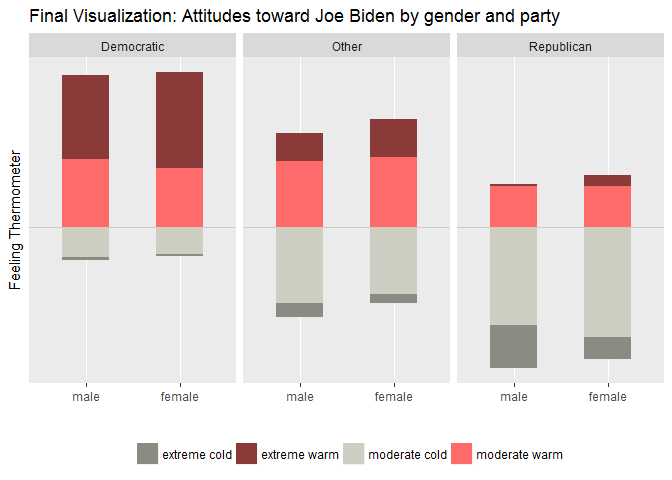
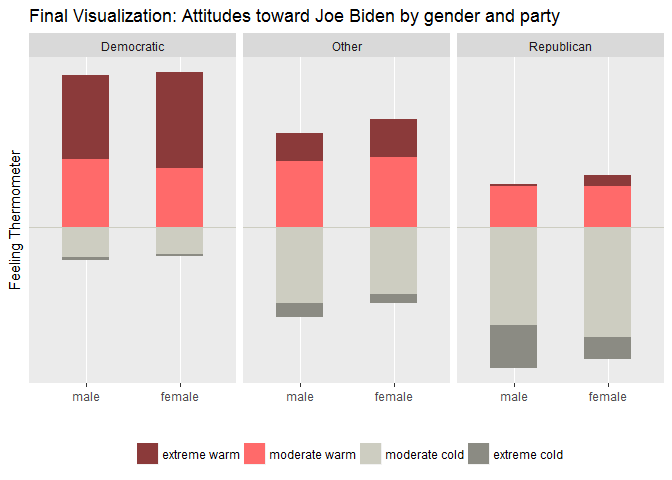
part 1, 3 sections finished

Changed region(s): [[0.3125, 0.9062, 0.8438, 0.9688], [0.1875, 0.9062, 0.25, 0.9688]]

diff --git a/submissions/Liu_Guangyu/assignment1/assignment_1_-_Guangyu_Liu.md b/submissions/Liu_Guangyu/assignment1/assignment_1_-_Guangyu_Liu.md
@@ -6,8 +6,44 @@ Due April 10, 2017
 Part 1: Visualization Critique
 ------------------------------
 
-Part 2: ggplot2 and the grammar of graphics
--------------------------------------------
+In 2014, Gregor Aisch, Robert Gebeloff, and Kevin Quealy charted [the migration trend of Americans since 1900](https://www.nytimes.com/interactive/2014/08/13/upshot/where-people-in-each-state-were-born.html?action=click&contentCollection=The%20Upshot&region=Footer&module=WhatsNext&version=WhatsNext&contentID=WhatsNext&moduleDetail=undefined&pgtype=Multimedia#Illinois). These interactive graphs incorporate trends of both immigration and migration between states in the past century.
+
+### Truthful
+
+To evaluate the truthfulness of the graph, two aspects need to be examined:
+
+-   Is the data reliable?
+-   Is the visualization reliable?
+
+These charts are based on Census microdata obtained from [IPUMS](https://www.ipums.org/) at the University of Minnesota Population Center. IPUMS provides census and survey data from around the world. It is reasonable to believe that the data source is reliable.
+
+At the bottom of the webpage, the authors indicate how foreign born residents and U.S. born residents but without a specific state are categorized in these graphs. Indicating data source and methodology makes these charts reproducible and reduces the probability of misrepresentation. In addition, the x-axis is divided into equal time intervals, the width of the bands are in proportion to the size of each group. The graphs accurately represent the data.
+
+### Functional
+
+In these graphs, the United States is divided into four regions: west, south, Midwest, and northeast, each is denoted by a particular color. The division of regions is clearly showed in the map on the left bottom. Readers can easily choose a state by clicking its position in the map.
+
+Each graph contains four types of data:
+
+-   Time, which is mapped to the x-axis
+-   Size of migration, which is showed by the width of each ribbon
+-   Destination (or origin) of migration, which is showed by the color of each ribbon
+-   Relative rank of each migration destination (or origin), which is indicated by the relative position of each ribbon
+
+Taking the graph of diaspora out of California as an example, with each ribbon stacking over the other, at the first sight, these graphs reminded me the stacked continental GDP graph we critiqued in class 2. In the GDP chart, it is difficult to compare the size of bands in the middle, since their baselines are different. An essential improvement in the migration graphs is that the ribbons intertwine with each other, with the larger size always on the top. In addition, when mouse hover over a ribbon, the graph shows the accurate percentage of California born residents lived in other regions/states in certain time. It is easy to compare the relative size of ribbons.
+
+However, this change has its weakness too. When the migration is mainly within region and changes frequently over time, the graph may be too complex to read. An extreme example is the graph of migration into Wyoming. Too many ribbons make it difficult to differentiate and obscure the main point. For instance, less than 3% Wyoming-born residents lived in Pennsylvania since 1900. It may be more appropriate to merge it into “other states in the northeast” to simplify the graph, and help the audience focus on its main destination. Also, since destination states are represented separately, it is difficult to add up the percentages in each region and tell the general migration trend.
+
+### Beautiful
+
+Generally speaking, these visualizations graph the trends of migration in an intuitively way. The pattern of ribbons shows whether the trend of migration is steadily over time or changes rapidly. However, as mentioned above, as the number of migration destination / origin increases, the graph gets less concise.
+
+### Insightful
+
+### Enlightening
+
+Part 2: `ggplot2` and the grammar of graphics
+---------------------------------------------
 
 ### Design
 
@@ -42,7 +78,7 @@ The problem of the above barchart is that although it is easy to compare the ext
 
 ![](assignment_1_-_Guangyu_Liu_files/figure-markdown_github/unnamed-chunk-5-1.png)
 
-Finally, to more clearly emphasize the comparison between like and dislike, I changed the filled color. Now, the cold categories are from the same color set, while the warm categories are from another color set. It is easy to tell that for each political party group, female respondents like Biden more than male respondents do. Democratic respondents like Biden most, Republican respondents dislike Biden most, while respondents of other political beliefs are in between. The final visualization and the complete code is as below.
+Finally, in order to more clearly emphasize the comparison between like and dislike, I changed the filled color. Now, the cold categories are from the same color set, while the warm categories are from another color set. It is easy to tell that for each political party group, female respondents like Biden more than male respondents do. Democratic respondents like Biden most, Republican respondents dislike Biden most, while respondents of other political beliefs are in between. The final visualization and the complete code is as below.
 
 ### Code and visualization
 
@@ -98,10 +134,11 @@ warm$biden_cat <- ordered(warm$biden_cat, levels = rev(levels(warm$biden_cat)))
 # Visualization
 bar_thermo <- ggplot() +
   aes(x = female, y = perc, fill = biden_cat) +
-  geom_bar(data = warm, stat = "identity", width = 0.5) +
   geom_bar(data = cold, stat = "identity", width = 0.5) +
+  geom_bar(data = warm, stat = "identity", width = 0.5) +
   geom_hline(yintercept = 0, color = "ivory3") +
-  scale_fill_manual(name = "", values = c("extreme warm" = "indianred4", "moderate warm" = "indianred1", "moderate cold" = "ivory3", "extreme cold" = "ivory4")) +
+  scale_fill_manual(name = "", values = c("extreme warm" = "indianred4", "moderate warm" = "indianred1", "moderate cold" = "ivory3", "extreme cold" = "ivory4"),
+                    breaks = c("extreme warm", "moderate warm", "moderate cold", "extreme cold")) +
   scale_y_continuous(breaks = NULL) +
   labs(x = "", y = "Feeling Thermometer", 
        title = "Final Visualization: Attitudes toward Joe Biden by gender and party") +
